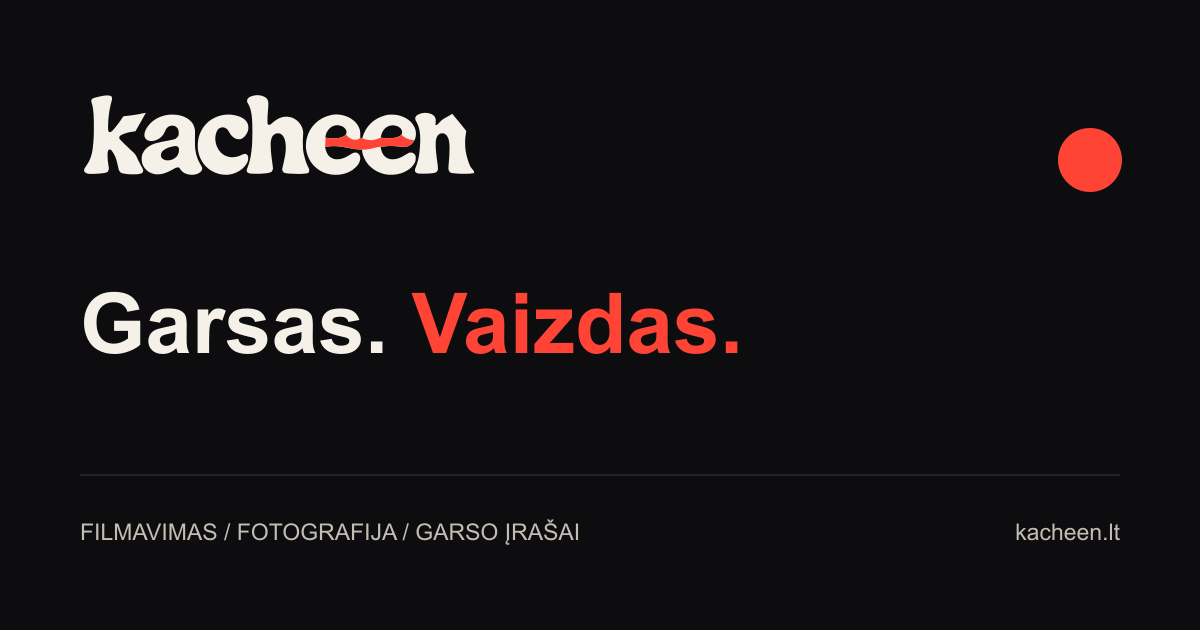
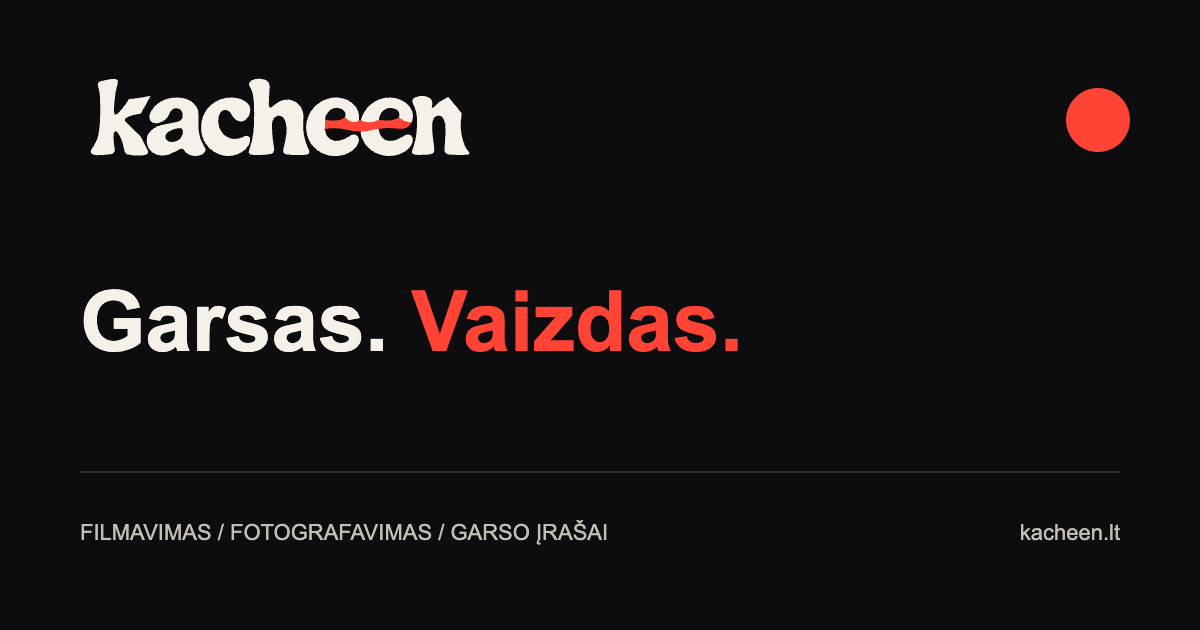
Correct the wording on the shared link cover
* Use Fotografavimas on the shared link cover

* Refresh the Open Graph cover URL on every shareable page

diff --git a/filmavimas.html b/filmavimas.html
@@ -1,5 +1,5 @@
 <!doctype html>
-<html lang="lt"><head><meta charset="utf-8"><meta name="viewport" content="width=device-width, initial-scale=1"><meta name="theme-color" content="#0d0d0f"><title>Renginių filmavimas Šalčininkuose | Kacheen</title><meta name="description" content="Filmuoju renginius, koncertus ir interviu Šalčininkuose bei rajone. Montuoju vaizdo įrašus ir paruošiu trumpas ištraukas socialiniams tinklams."><link rel="canonical" href="https://kacheen.lt/filmavimas.html"><meta property="og:title" content="Renginių filmavimas Šalčininkuose | Kacheen"><meta property="og:description" content="Filmuoju renginius, koncertus ir interviu Šalčininkuose bei rajone. Montuoju vaizdo įrašus ir paruošiu trumpas ištraukas socialiniams tinklams."><meta property="og:url" content="https://kacheen.lt/filmavimas.html"><meta property="og:type" content="website"><meta property="og:locale" content="lt_LT"><meta property="og:image" content="https://kacheen.lt/assets/social-cover.png"><link rel="icon" href="/favicon-ee.png" type="image/png" sizes="64x64"><link rel="stylesheet" href="styles.css?v=pasiulymo-mygtukas"><script src="site.js?v=youtube-thumbs" defer></script><script type="application/ld+json">{
+<html lang="lt"><head><meta charset="utf-8"><meta name="viewport" content="width=device-width, initial-scale=1"><meta name="theme-color" content="#0d0d0f"><title>Renginių filmavimas Šalčininkuose | Kacheen</title><meta name="description" content="Filmuoju renginius, koncertus ir interviu Šalčininkuose bei rajone. Montuoju vaizdo įrašus ir paruošiu trumpas ištraukas socialiniams tinklams."><link rel="canonical" href="https://kacheen.lt/filmavimas.html"><meta property="og:title" content="Renginių filmavimas Šalčininkuose | Kacheen"><meta property="og:description" content="Filmuoju renginius, koncertus ir interviu Šalčininkuose bei rajone. Montuoju vaizdo įrašus ir paruošiu trumpas ištraukas socialiniams tinklams."><meta property="og:url" content="https://kacheen.lt/filmavimas.html"><meta property="og:type" content="website"><meta property="og:locale" content="lt_LT"><meta property="og:image" content="https://kacheen.lt/assets/social-cover.png?v=fotografavimas"><link rel="icon" href="/favicon-ee.png" type="image/png" sizes="64x64"><link rel="stylesheet" href="styles.css?v=pasiulymo-mygtukas"><script src="site.js?v=youtube-thumbs" defer></script><script type="application/ld+json">{
   "@context": "https://schema.org",
   "@graph": [
     {

diff --git a/fotografija.html b/fotografija.html
@@ -1,5 +1,5 @@
 <!doctype html>
-<html lang="lt"><head><meta charset="utf-8"><meta name="viewport" content="width=device-width, initial-scale=1"><meta name="theme-color" content="#0d0d0f"><title>Renginių fotografas Šalčininkuose | Kacheen</title><meta name="description" content="Fotografuoju renginius, koncertus ir asmenines šventes Šalčininkuose bei rajone. Peržiūrėk foto albumus ir parašyk dėl savo renginio."><link rel="canonical" href="https://kacheen.lt/fotografija.html"><meta property="og:title" content="Renginių fotografas Šalčininkuose | Kacheen"><meta property="og:description" content="Fotografuoju renginius, koncertus ir asmenines šventes Šalčininkuose bei rajone. Peržiūrėk foto albumus ir parašyk dėl savo renginio."><meta property="og:url" content="https://kacheen.lt/fotografija.html"><meta property="og:type" content="website"><meta property="og:locale" content="lt_LT"><meta property="og:image" content="https://kacheen.lt/assets/social-cover.png"><link rel="icon" href="/favicon-ee.png" type="image/png" sizes="64x64"><link rel="stylesheet" href="styles.css?v=pasiulymo-mygtukas"><script src="site.js?v=pasiulymo-forma" defer></script><script type="application/ld+json">{
+<html lang="lt"><head><meta charset="utf-8"><meta name="viewport" content="width=device-width, initial-scale=1"><meta name="theme-color" content="#0d0d0f"><title>Renginių fotografas Šalčininkuose | Kacheen</title><meta name="description" content="Fotografuoju renginius, koncertus ir asmenines šventes Šalčininkuose bei rajone. Peržiūrėk foto albumus ir parašyk dėl savo renginio."><link rel="canonical" href="https://kacheen.lt/fotografija.html"><meta property="og:title" content="Renginių fotografas Šalčininkuose | Kacheen"><meta property="og:description" content="Fotografuoju renginius, koncertus ir asmenines šventes Šalčininkuose bei rajone. Peržiūrėk foto albumus ir parašyk dėl savo renginio."><meta property="og:url" content="https://kacheen.lt/fotografija.html"><meta property="og:type" content="website"><meta property="og:locale" content="lt_LT"><meta property="og:image" content="https://kacheen.lt/assets/social-cover.png?v=fotografavimas"><link rel="icon" href="/favicon-ee.png" type="image/png" sizes="64x64"><link rel="stylesheet" href="styles.css?v=pasiulymo-mygtukas"><script src="site.js?v=pasiulymo-forma" defer></script><script type="application/ld+json">{
   "@context": "https://schema.org",
   "@graph": [
     {

diff --git a/index.html b/index.html
@@ -10,7 +10,7 @@
   <meta property="og:description" content="Filmavimas ir montavimas, fotografavimas, garso įrašai ir muzika Šalčininkuose. Darbų pavyzdžiai ir kontaktai.">
   <meta property="og:type" content="website">
   <meta property="og:locale" content="lt_LT">
-  <meta property="og:image" content="https://kacheen.lt/assets/social-cover.png">
+  <meta property="og:image" content="https://kacheen.lt/assets/social-cover.png?v=fotografavimas">
   <link rel="icon" href="/favicon-ee.png" type="image/png" sizes="64x64">
   <link rel="preload" href="assets/albert-sans.ttf" as="font" type="font/ttf" crossorigin>
   <link rel="stylesheet" href="styles.css?v=pasiulymo-mygtukas">

diff --git a/irasu-studija.html b/irasu-studija.html
@@ -11,7 +11,7 @@
   <meta property="og:description" content="Vokalo įrašymas ir suvedimas pagal tavo muzikinį takelį, muzikos kūrimas ir aranžuotės Šalčininkuose. Įrašo vietą ir laiką suderiname iš anksto.">
   <meta property="og:type" content="website">
   <meta property="og:locale" content="lt_LT">
-  <meta property="og:image" content="https://kacheen.lt/assets/social-cover.png">
+  <meta property="og:image" content="https://kacheen.lt/assets/social-cover.png?v=fotografavimas">
   <script type="application/ld+json">{
   "@context": "https://schema.org",
   "@graph": [

diff --git a/kainos.html b/kainos.html
@@ -11,7 +11,7 @@
   <meta property="og:description" content="Kacheen paslaugų kainos: fotografavimas nuo 100 €/val., paprastas balso įrašymas nuo 50 €. Filmavimo ir montavimo pasiūlymai pagal projekto apimtį.">
   <meta property="og:type" content="website">
   <meta property="og:locale" content="lt_LT">
-  <meta property="og:image" content="https://kacheen.lt/assets/social-cover.png">
+  <meta property="og:image" content="https://kacheen.lt/assets/social-cover.png?v=fotografavimas">
   <script type="application/ld+json">{
   "@context": "https://schema.org",
   "@graph": [

diff --git a/privatumas.html b/privatumas.html
@@ -6,7 +6,7 @@
   <meta property="og:description" content="Kaip veikia Kacheen svetainės užklausos ir išoriniai medijos grotuvai.">
   <meta property="og:type" content="website">
   <meta property="og:locale" content="lt_LT">
-  <meta property="og:image" content="https://kacheen.lt/assets/social-cover.png">
+  <meta property="og:image" content="https://kacheen.lt/assets/social-cover.png?v=fotografavimas">
   <script type="application/ld+json">{
   "@context": "https://schema.org",
   "@graph": [
